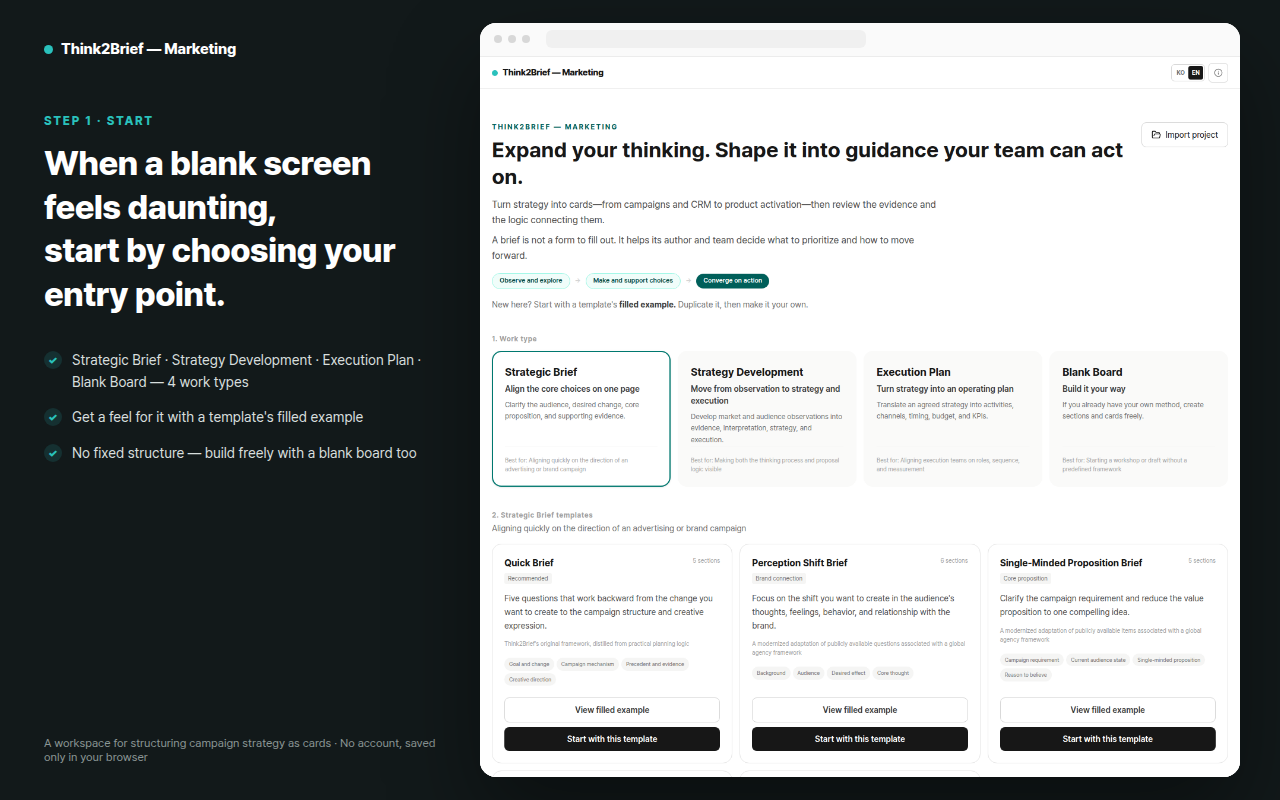
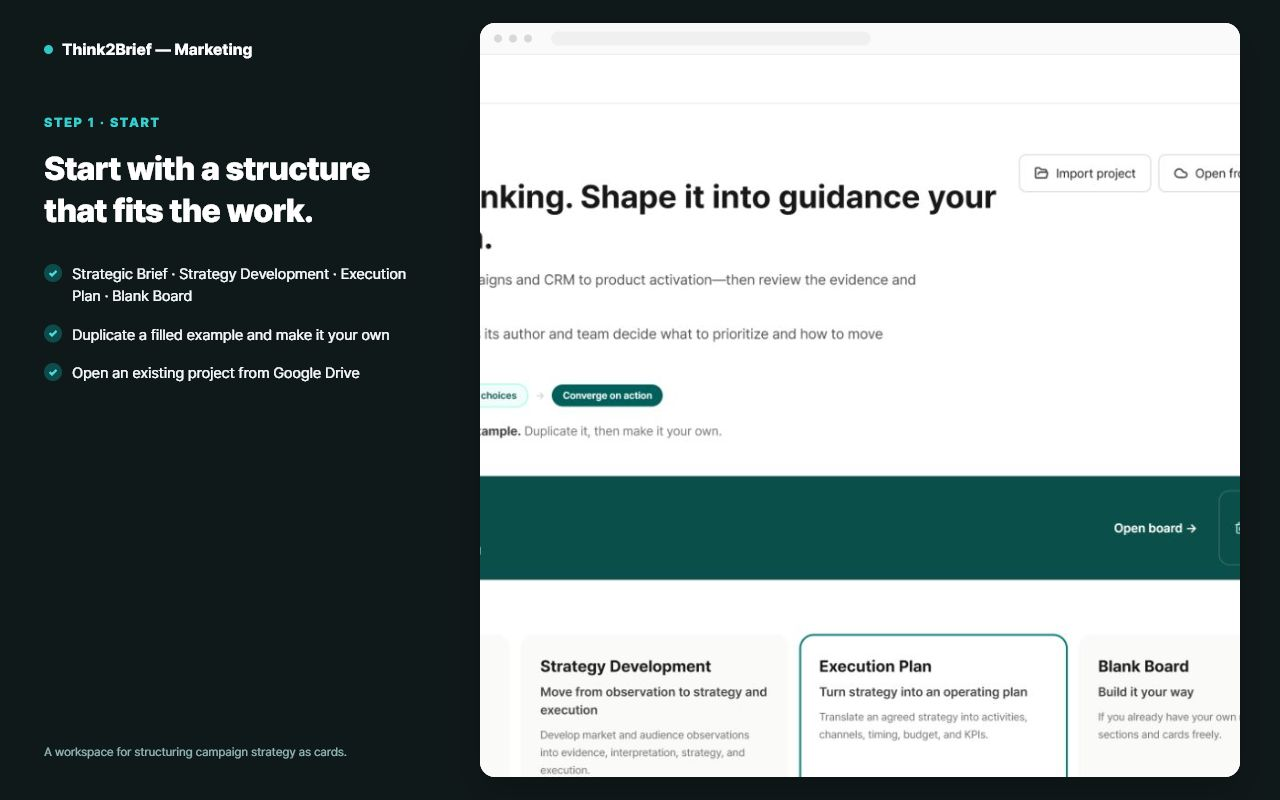
Update Drive copy and release screenshots

diff --git a/site/index.html b/site/index.html
@@ -87,9 +87,9 @@
             <a class="button button-secondary" href="#how-it-works" data-i18n="hero.howItWorksButton">작동 방식 보기</a>
           </div>
           <ul class="trust-list" data-i18n-attr-aria-label="hero.trustList.ariaLabel" aria-label="현재 제품 특성">
-            <li><span aria-hidden="true">✓</span> <span data-i18n="hero.trust.noSignup">회원가입 없음</span></li>
-            <li><span aria-hidden="true">✓</span> <span data-i18n="hero.trust.noServer">외부 서버 전송 없음</span></li>
-            <li><span aria-hidden="true">✓</span> <span data-i18n="hero.trust.localStorage">브라우저 로컬 저장</span></li>
+            <li><span aria-hidden="true">✓</span> <span data-i18n="hero.trust.noSignup">Think2Brief 계정 불필요</span></li>
+            <li><span aria-hidden="true">✓</span> <span data-i18n="hero.trust.noServer">개발자 서버 전송 없음</span></li>
+            <li><span aria-hidden="true">✓</span> <span data-i18n="hero.trust.localStorage">로컬 저장 · 선택 시 Drive</span></li>
           </ul>
         </div>
 
@@ -191,14 +191,14 @@
                 <div><span>01</span><h3 data-i18n="step1.title">질문 구조 선택</h3></div>
                 <p data-i18n="step1.body">빈 보드, 빠른 브리프, 포지셔닝 등 작업에 맞는 시작점을 고릅니다.</p>
               </figcaption>
-              <div class="product-view-media" style="aspect-ratio: 1280 / 650">
+              <div class="product-view-media" style="aspect-ratio: 1280 / 800">
                 <img
                   src="./assets/product/blank-board-start.png"
                   data-i18n-en-src="./assets/product/blank-board-start-en.png"
                   alt="전략 브리프·전략 전개안·실행기획안·빈 보드 중 빈 보드를 선택하고, 그 아래 빈 보드 템플릿 카드를 고르는 Think2Brief 시작 화면"
                   data-i18n-attr-alt="step1.alt"
                   width="1280"
-                  height="650"
+                  height="800"
                   loading="lazy"
                   decoding="async"
                 />
@@ -210,14 +210,14 @@
                 <div><span>02</span><h3 data-i18n="step2.title">판단과 근거 기록</h3></div>
                 <p data-i18n="step2.body">여러 판단과 근거를 카드로 만들고 선택·후보·제외 상태를 구분합니다.</p>
               </figcaption>
-              <div class="product-view-media" style="aspect-ratio: 1280 / 760">
+              <div class="product-view-media" style="aspect-ratio: 1280 / 800">
                 <img
                   src="./assets/product/work-board.png"
                   data-i18n-en-src="./assets/product/work-board-en.png"
                   alt="F&B 브랜드 SNS 재정비 사례를 작성한 Think2Brief 작업 보드. 목표와 타깃이 채워져 있고 콘텐츠 목표·타깃 반응·주제 메시지·포맷 채널 섹션에 카드가 쌓여 있다"
                   data-i18n-attr-alt="step2.alt"
                   width="1280"
-                  height="760"
+                  height="800"
                   loading="lazy"
                   decoding="async"
                 />
@@ -229,14 +229,14 @@
                 <div><span>03</span><h3 data-i18n="step3.title">연결 확인</h3></div>
                 <p data-i18n="step3.body">논리의 정답이 아니라 작성한 목표·근거·전략·활동이 끊기지 않는지 확인합니다.</p>
               </figcaption>
-              <div class="product-view-media" style="aspect-ratio: 1280 / 720">
+              <div class="product-view-media" style="aspect-ratio: 1280 / 800">
                 <img
                   src="./assets/product/logic-review.png"
                   data-i18n-en-src="./assets/product/logic-review-en.png"
                   alt="목표와 타깃부터 근거, 실행, 성공 판단 근거까지 6개 항목이 모두 연결됨으로 표시된 Think2Brief 연결 점검 화면"
                   data-i18n-attr-alt="step3.alt"
                   width="1280"
-                  height="720"
+                  height="800"
                   loading="lazy"
                   decoding="async"
                 />
@@ -248,14 +248,14 @@
                 <div><span>04</span><h3 data-i18n="step4.title">최종 브리프 완성</h3></div>
                 <p data-i18n="step4.body">브리프에 포함한 카드만 모아 검토하고 Markdown 또는 PDF로 정리합니다.</p>
               </figcaption>
-              <div class="product-view-media" style="aspect-ratio: 1280 / 900">
+              <div class="product-view-media" style="aspect-ratio: 1280 / 800">
                 <img
                   src="./assets/product/final-brief.png"
                   data-i18n-en-src="./assets/product/final-brief-en.png"
                   alt="목표와 타깃, 콘텐츠 목표·타깃 반응 섹션이 정리된 Think2Brief 최종 브리프 문서 화면"
                   data-i18n-attr-alt="step4.alt"
                   width="1280"
-                  height="900"
+                  height="800"
                   loading="lazy"
                   decoding="async"
                 />
@@ -270,8 +270,8 @@
         <div class="feature-strip">
           <article class="feature-item">
             <div class="feature-icon" aria-hidden="true"><span class="icon-lock"></span></div>
-            <h3 data-i18n="feature1.title">로컬 저장</h3>
-            <p data-i18n="feature1.body">계정 없이 브라우저에만 저장되고 개발자에게 전송되지 않습니다.</p>
+            <h3 data-i18n="feature1.title">로컬 우선 저장</h3>
+            <p data-i18n="feature1.body">브라우저에 자동 저장하고, 필요할 때 선택한 프로젝트만 Google Drive에 저장하거나 불러옵니다. 개발자에게는 전송되지 않습니다.</p>
             <a href="./privacy/"><span data-i18n="feature1.link">개인정보 처리방침 보기</span> <span>→</span></a>
           </article>
           <article class="feature-item">
@@ -282,7 +282,7 @@
           <article class="feature-item">
             <div class="feature-icon" aria-hidden="true"><span class="icon-glyph">✓</span></div>
             <h3 data-i18n="feature3.title">현재 모든 기능 무료</h3>
-            <p data-i18n="feature3.body">회원가입이나 결제 없이 모든 기능을 사용할 수 있습니다.</p>
+            <p data-i18n="feature3.body">Think2Brief 회원가입이나 결제 없이 모든 핵심 기능을 사용할 수 있습니다. Drive 연동만 Google 로그인이 필요합니다.</p>
           </article>
         </div>
       </section>

diff --git a/site/assets/i18n-home.js b/site/assets/i18n-home.js
@@ -17,9 +17,9 @@ export const en = {
     "hero.installButton": "Install from the Chrome Web Store",
     "hero.howItWorksButton": "See how it works",
     "hero.trustList.ariaLabel": "Current product characteristics",
-    "hero.trust.noSignup": "No sign-up",
-    "hero.trust.noServer": "Nothing sent to a server",
-    "hero.trust.localStorage": "Saved locally in your browser",
+    "hero.trust.noSignup": "No Think2Brief account",
+    "hero.trust.noServer": "Nothing sent to a developer server",
+    "hero.trust.localStorage": "Local storage · optional Drive",
     "preview.ariaLabel": "Example Think2Brief workspace",
     "preview.workBoard": "Work board",
     "preview.campaignBrief": "Campaign brief",
@@ -69,13 +69,15 @@ export const en = {
     "step4.alt":
       "Think2Brief's final brief document with the goal, audience, content objective, and audience-response sections laid out",
     "features.ariaLabel": "A few more things worth knowing",
-    "feature1.title": "Local storage",
-    "feature1.body": "Saved only in your browser, with no account and nothing sent to the developer.",
+    "feature1.title": "Local-first storage",
+    "feature1.body":
+      "Projects autosave in your browser. When you choose, you can save or open selected projects in Google Drive. Nothing is sent to the developer.",
     "feature1.link": "Read the privacy policy",
     "feature2.title": "Markdown & PDF export",
     "feature2.body": "Export a finished brief straight to a document or a printable file.",
     "feature3.title": "Every feature is free right now",
-    "feature3.body": "Use every feature with no sign-up and no payment.",
+    "feature3.body":
+      "Use every core feature with no Think2Brief sign-up or payment. Only the optional Drive integration requires Google sign-in.",
     "finalCta.title": "Turn your scattered thinking into a brief, right now.",
     "finalCta.installButton": "Install from the Chrome Web Store",
     "finalCta.contact": "Contact us",

diff --git a/site/updates/index.html b/site/updates/index.html
@@ -71,6 +71,21 @@
 
       <ul class="updates-list" aria-live="polite">
         <li class="update-entry">
+          <time datetime="2026-07-30">2026.07.30</time>
+          <h2 data-i18n="update.v122.title">Google Drive 저장·열기 추가 (v1.2.2)</h2>
+          <ul>
+            <li data-i18n="update.v122.item1">
+              프로젝트를 Google Drive에 저장하거나 다시 열고, 저장할 폴더를 직접 선택할 수 있습니다.
+            </li>
+            <li data-i18n="update.v122.item2">
+              Drive 파일의 변경 충돌을 확인하고, 프로젝트별 연결을 해제하거나 다시 연결할 수 있습니다.
+            </li>
+            <li data-i18n="update.v122.item3">
+              프로젝트는 계속 브라우저에 자동 저장되며, 사용자가 Drive 기능을 선택한 경우에만 선택한 프로젝트 파일이 Google로 전송됩니다.
+            </li>
+          </ul>
+        </li>
+        <li class="update-entry">
           <time datetime="2026-07-28">2026.07.28</time>
           <h2 data-i18n="update.v110.title">영어 지원 추가 (v1.1.0)</h2>
           <ul>

diff --git a/site/assets/i18n-updates.js b/site/assets/i18n-updates.js
@@ -10,6 +10,13 @@ export const en = {
     "updates.title": "Update notes",
     "updates.description":
       "A short record of what changed in Think2Brief. Written around what you'd actually notice, not the commit log.",
+    "update.v122.title": "Google Drive save and open added (v1.2.2)",
+    "update.v122.item1":
+      "Save projects to Google Drive, open them again, and choose the destination folder yourself.",
+    "update.v122.item2":
+      "Check for Drive file conflicts, disconnect a project, or reconnect it when needed.",
+    "update.v122.item3":
+      "Projects still autosave in your browser. Only the project file you select is sent to Google when you choose a Drive action.",
     "update.v110.title": "English support added (v1.1.0)",
     "update.v110.item1":
       "The Chrome extension now supports English. Switch languages anytime from the toggle in the top-right corner.",

diff --git a/site/assets/i18n-privacy.js b/site/assets/i18n-privacy.js
@@ -51,6 +51,8 @@ export const en = {
     "s05.title": "Chrome permissions",
     "s05.body":
       "The extension uses Chrome's <code>identity</code> permission and Google Drive's <code>drive.file</code> scope for Google account authentication. Permission is requested when you use a Drive feature, and does not allow the extension to browse your entire Drive or arbitrarily read files created by other apps. It cannot access your browsing history or the content of other tabs.",
+    "s05.limitedUse":
+      "Use and transfer of information received from Google APIs will adhere to the Chrome Web Store User Data Policy, including the Limited Use requirements.",
     "s06.title": "Retention and deletion",
     "s06.body1":
       "Autosaved data remains in that browser until you run <b>Clear saved data</b> inside the extension, or clear the extension's data through Chrome.",

diff --git a/site/privacy/index.html b/site/privacy/index.html
@@ -181,6 +181,11 @@
             파일을 임의로 읽을 수 없습니다. 웹사이트 방문 기록이나 다른
             탭의 내용에는 접근하지 않습니다.
           </p>
+          <p data-i18n="s05.limitedUse">
+            Google API에서 받은 정보의 사용 및 다른 앱으로의 전송은
+            Chrome 웹스토어 사용자 데이터 정책과 Limited Use 요구사항을
+            준수합니다.
+          </p>
         </section>
 
         <section>

diff --git a/site/assets/store/README.md b/site/assets/store/README.md
@@ -1,22 +1,21 @@
-# Chrome Web Store screenshots (English)
+# Chrome Web Store screenshots
 
-`screenshot-1-start-en.png` … `screenshot-4-finish-en.png` (1280×800) are the
-English Chrome Web Store listing screenshots, matching the existing Korean
-listing images 1:1 in structure (dark card, `STEP N` label, headline, three
-checkmarks, footer tagline, and a real product screenshot on the right).
+The Korean files (`*-ko.png`) and English files (`*-en.png`) are the
+Chrome Web Store listing screenshots for v1.2.2. All eight files are
+1280×800 and match 1:1 in structure: dark card, `STEP N` label, headline,
+three checkmarks, footer tagline, and a real product screenshot on the right.
 
 These are not decorative mockups: the screenshot inside each card is the
-actual built extension (`campaign-strategy-os-extension`, `npm run build`,
-language switched to English), not hand-edited text. Steps 2–4 all use the
-built-in "F&B Brand Social Channel Refresh" example
-(`contentPlan` template) so the story stays consistent panel to panel.
+actual built v1.2.2 extension, not hand-edited UI text. Steps 2–4 use the
+built-in F&B brand social-channel example in each language so the story
+stays consistent panel to panel. The captures include the optional Google
+Drive controls added in this release.
 
 ## Regenerating
 
 1. Build the extension in `campaign-strategy-os-extension` (`npm run build`)
    so `dist/index.html` exists.
-2. Load it in a headless browser, switch the language toggle to English,
-   and capture:
+2. Load it in a browser, capture the same four states in Korean and English:
    - Step 1: default library screen (Strategic Brief selected)
    - Step 2: the F&B example's work board
    - Step 3: the F&B example's logic review
@@ -26,21 +25,9 @@ built-in "F&B Brand Social Channel Refresh" example
    committed here to avoid bundling a duplicate copy of the Pretendard font
    and a cross-repo build dependency into this repository).
 
-**Gotcha 1**: size the browser-mockup frame to the screenshot's own scaled
-height (`width: 100%; height: auto` on the image, frame sized by content) —
-don't force a fixed frame height. Each step's source screenshot has a
-different aspect ratio, so a fixed height either crops the image or leaves
-dead white space below it depending on the step.
+The browser frame uses a top-aligned cover crop so the Store card is filled
+without stretching the application UI. Keep the right-side Drive status and
+action visible in the start and board images.
 
-**Gotcha 2**: capture *enough* content, not just whatever the first
-convenient crop point is. The frame is 760px wide inside the 1280×800 card,
-so the tallest a screenshot can be before the frame overflows the canvas is
-about 720px — meaning capture the app at roughly 1280×1200 (not, say,
-1280×650) so the scaled-down frame actually fills most of the card instead
-of floating small and empty in the middle. Pick the clip height by looking
-at the full page first and cutting at a clean section/card boundary near
-that ~1200px mark, not an arbitrary round number.
-
-Update these whenever the extension's English copy or the example content
-changes enough that the screenshots would look stale next to the real
-product.
+Update both language sets whenever the extension copy, navigation, storage
+controls, or example content changes enough that the images would look stale.
